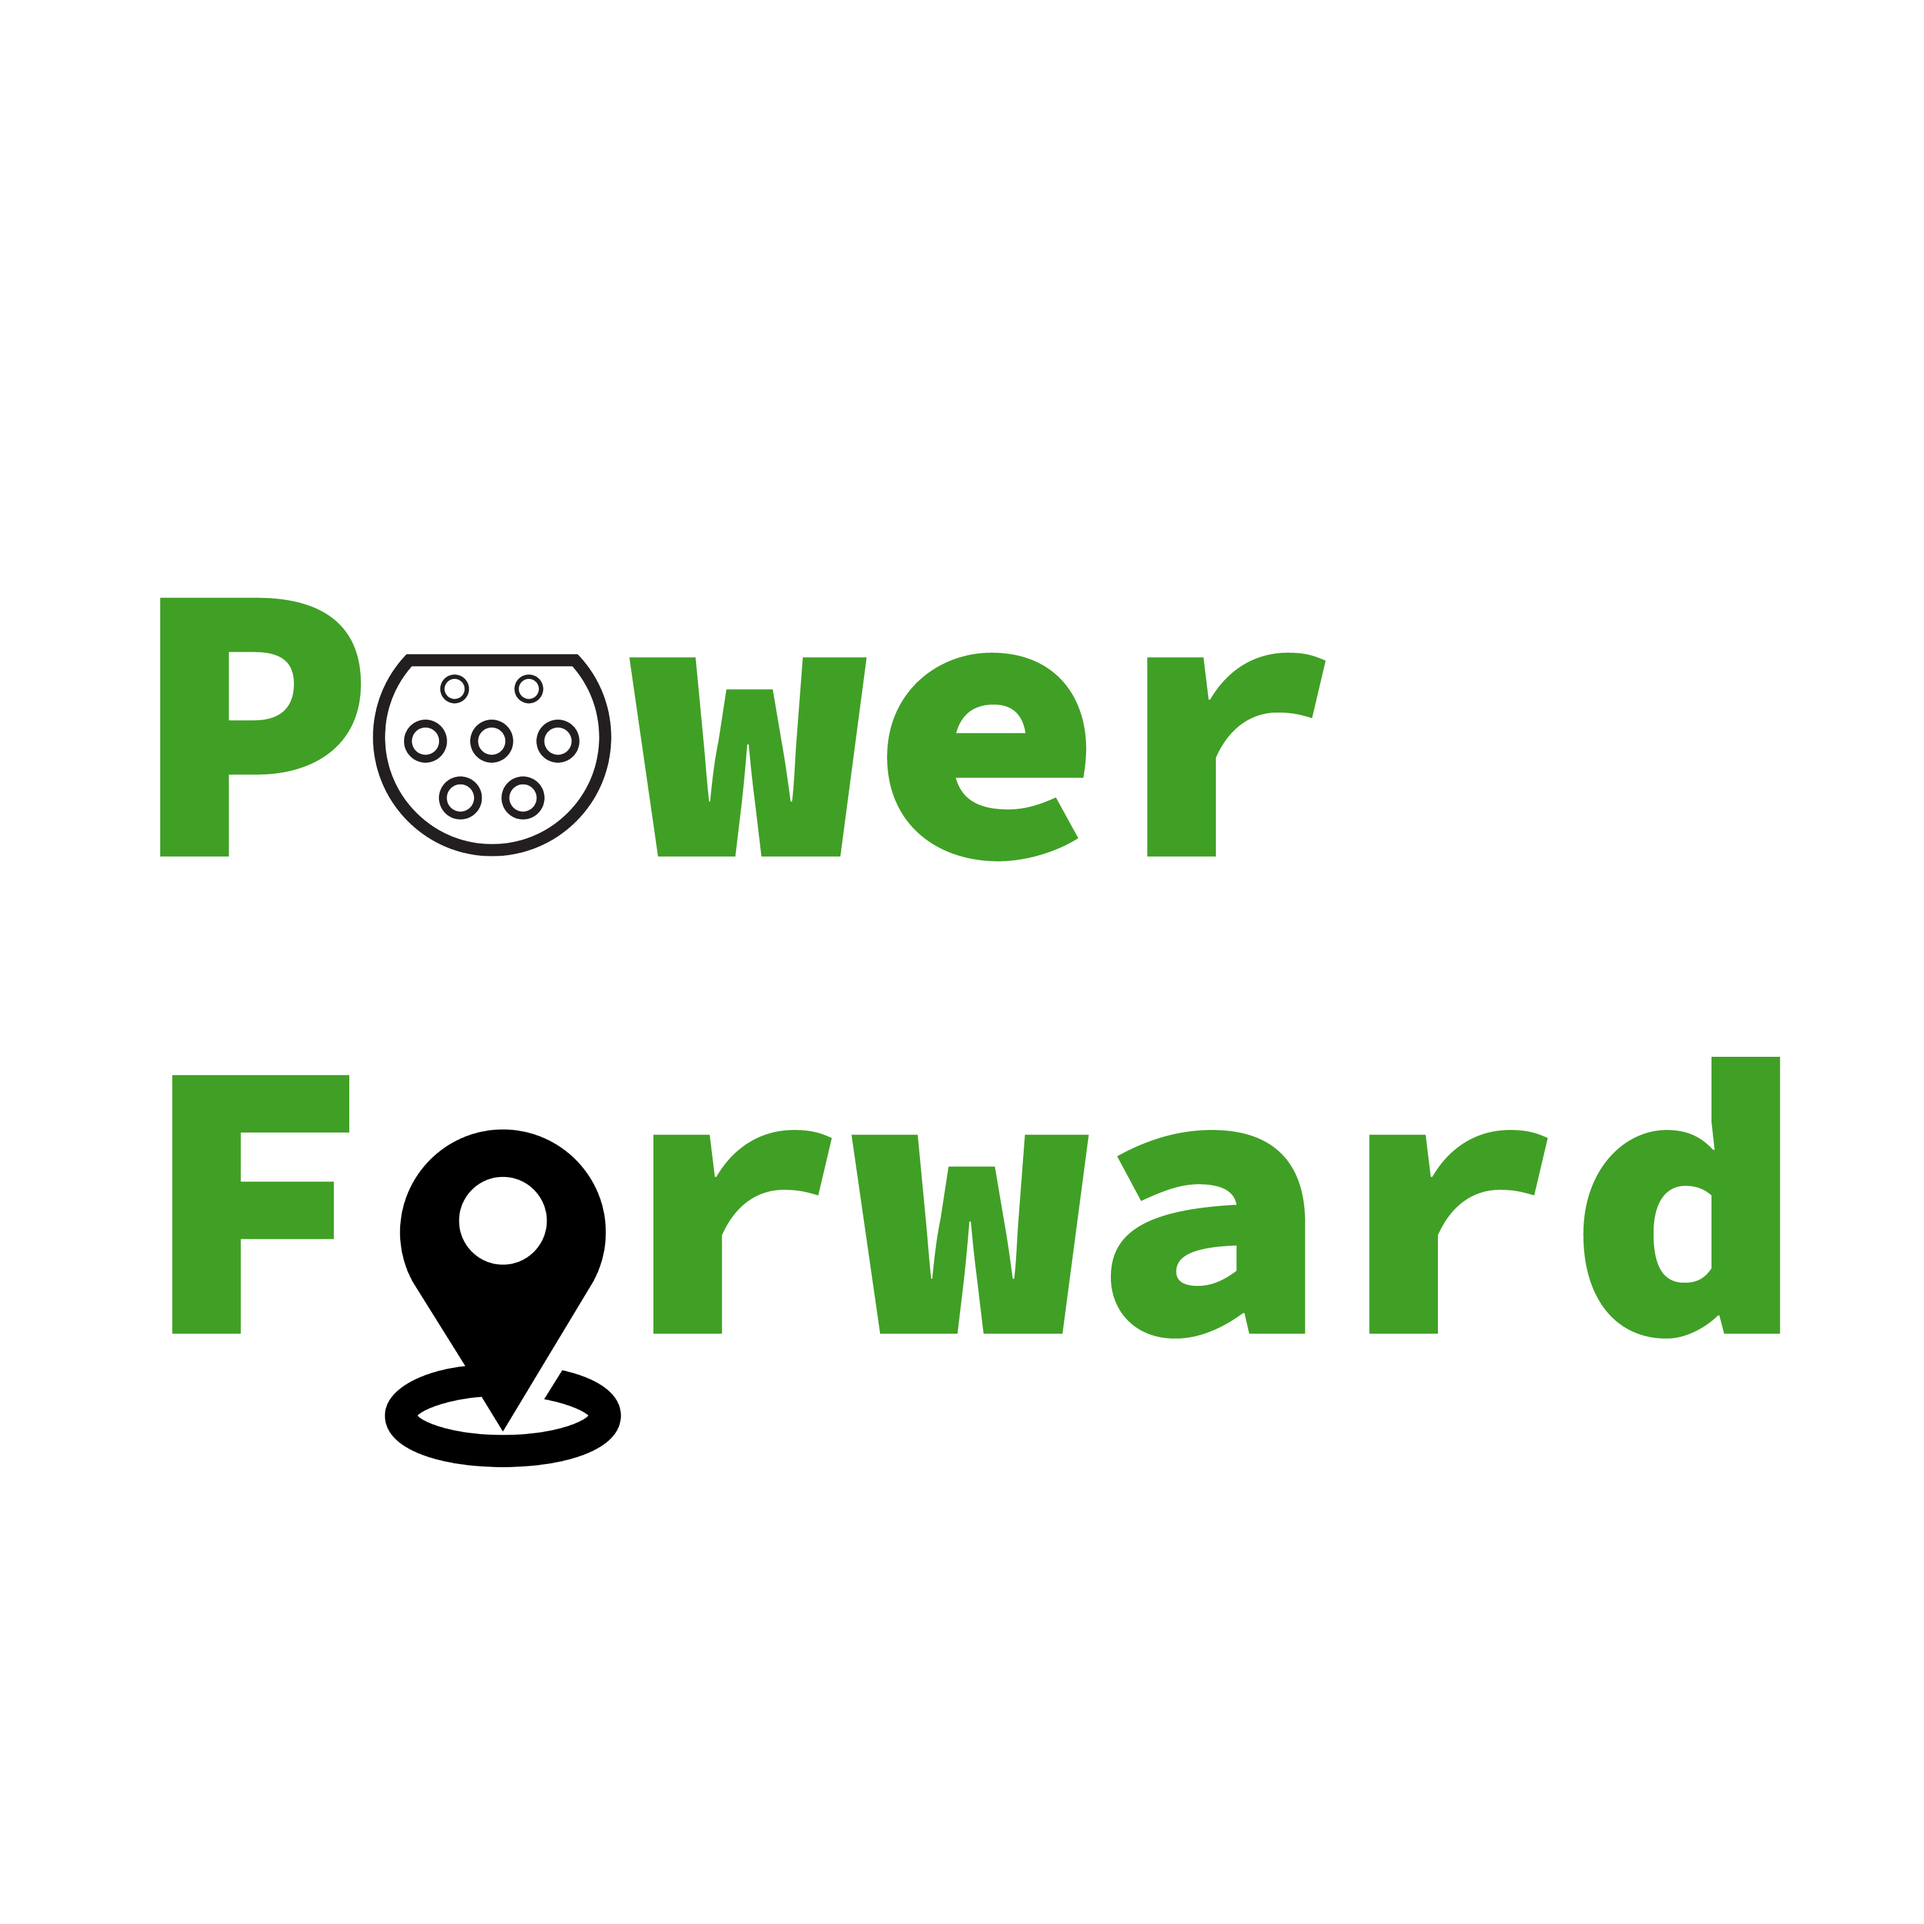
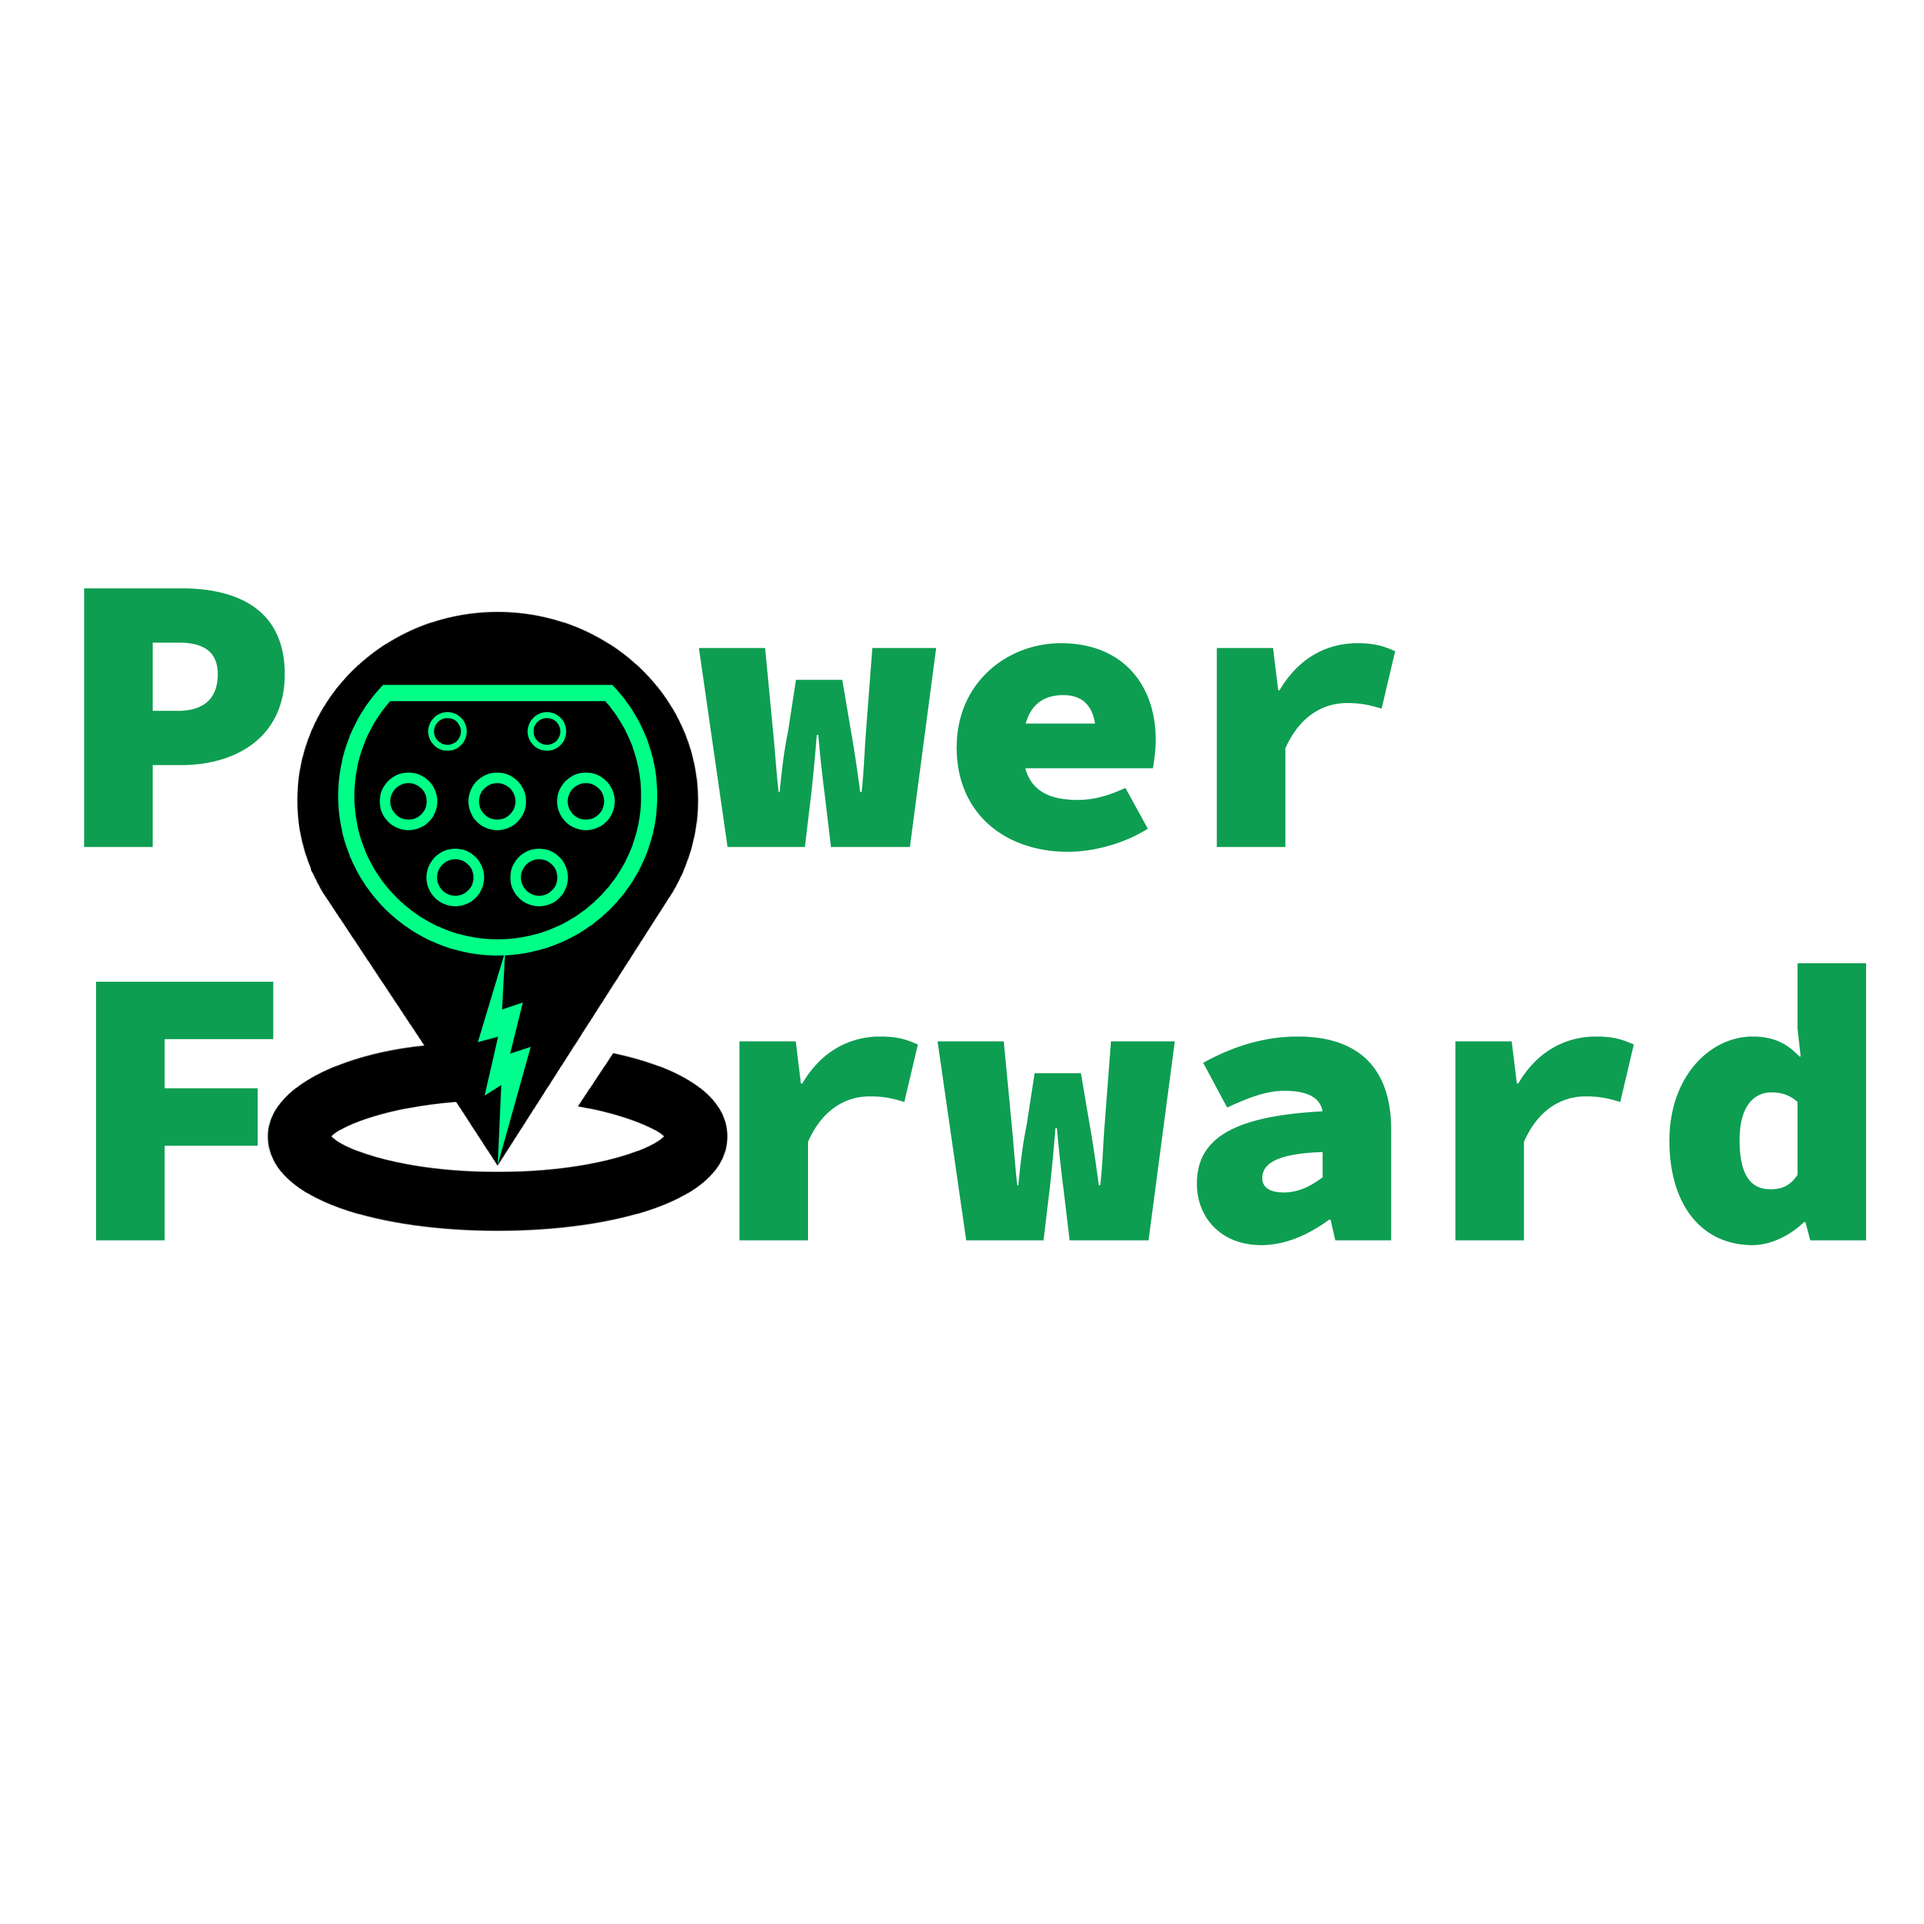
minor UI fixes for navbar, cleaned up some style, and included mongodb connection

Changed region(s): [[0.0311, 0.2798, 0.9947, 0.7771]]

diff --git a/server/src/templates/base.html b/server/src/templates/base.html
@@ -7,22 +7,25 @@
     <!-- Load an icon library to show a hamburger menu (bars) on small screens -->
     <link rel="stylesheet" href="https://cdnjs.cloudflare.com/ajax/libs/font-awesome/4.7.0/css/font-awesome.min.css">
     <!-- Bootstrap CSS -->
+
     <link href="//netdna.bootstrapcdn.com/bootstrap/3.0.0/css/bootstrap.min.css" rel="stylesheet" id="bootstrap-css">
 
     <!-- jQuery first, then Popper.js, then Bootstrap JS -->
-    <script src="http://ajax.googleapis.com/ajax/libs/jquery/1.7.1/jquery.min.js" type="text/javascript"></script>
-    <script src="https://code.jquery.com/jquery-3.3.1.slim.min.js" integrity="sha384-q8i/X+965DzO0rT7abK41JStQIAqVgRVzpbzo5smXKp4YfRvH+8abtTE1Pi6jizo" crossorigin="anonymous"></script>
-    <script src="https://cdnjs.cloudflare.com/ajax/libs/popper.js/1.14.7/umd/popper.min.js" integrity="sha384-UO2eT0CpHqdSJQ6hJty5KVphtPhzWj9WO1clHTMGa3JDZwrnQq4sF86dIHNDz0W1" crossorigin="anonymous"></script>
-    <script src="https://stackpath.bootstrapcdn.com/bootstrap/4.3.1/js/bootstrap.min.js" integrity="sha384-JjSmVgyd0p3pXB1rRibZUAYoIIy6OrQ6VrjIEaFf/nJGzIxFDsf4x0xIM+B07jRM" crossorigin="anonymous"></script>
-    <script src="//netdna.bootstrapcdn.com/bootstrap/3.0.0/js/bootstrap.min.js"></script>
-    <script src="//code.jquery.com/jquery-1.11.1.min.js"></script>
+    <!-- <script src="http://ajax.googleapis.com/ajax/libs/jquery/1.7.1/jquery.min.js" type="text/javascript"></script> -->
+    <!-- <script src="https://code.jquery.com/jquery-3.3.1.slim.min.js" integrity="sha384-q8i/X+965DzO0rT7abK41JStQIAqVgRVzpbzo5smXKp4YfRvH+8abtTE1Pi6jizo" crossorigin="anonymous"></script> -->
+    <!-- <script src="https://cdnjs.cloudflare.com/ajax/libs/popper.js/1.14.7/umd/popper.min.js" integrity="sha384-UO2eT0CpHqdSJQ6hJty5KVphtPhzWj9WO1clHTMGa3JDZwrnQq4sF86dIHNDz0W1" crossorigin="anonymous"></script> -->
+    <!-- <script src="https://stackpath.bootstrapcdn.com/bootstrap/4.3.1/js/bootstrap.min.js" integrity="sha384-JjSmVgyd0p3pXB1rRibZUAYoIIy6OrQ6VrjIEaFf/nJGzIxFDsf4x0xIM+B07jRM" crossorigin="anonymous"></script> -->
+    <!-- <script src="//netdna.bootstrapcdn.com/bootstrap/3.0.0/js/bootstrap.min.js"></script> -->
+    <!-- <script src="//code.jquery.com/jquery-1.11.1.min.js"></script> -->
 
     <title>{% block title %}{% endblock %} - Power Forward</title>
-    {% include 'style.html' %}
+
   </head>
+  {% include 'navbar.html' %}
+  {% include 'style.html' %}
 
   <body>
-    {% include 'navbar.html' %}
+
 
     <div id="content">
       <div class="jumbotron">
@@ -44,23 +47,11 @@
       {% block footer %}
       &copy; Copyright 2021 by
       <a href="https://powerforward.tech/">
-        <img src="{{url_for('static', filename='images/PowerForward_cleaned.png')}}" class="logo" style='width:10%'/>
+        <img src="{{url_for('static', filename='images/PowerForward_colored.png')}}" class="logo" style='width:10%'/>
       </a>
       {% endblock %}
     </div>
 
 
-    <!-- Optional JavaScript -->
-    <script>
-      function myFunction() {
-        var x = document.getElementByTagName("nav");
-        if (x.className === "topnav") {
-          x.className += " responsive";
-        } else {
-          x.className = "topnav";
-        }
-      }
-
-      </script>
 
   </body>

diff --git a/server/src/templates/style.html b/server/src/templates/style.html
@@ -14,7 +14,9 @@ button {
   display: inline-block;
   font-size: 20px;
   border-radius: 20px;
-  width: 80%;
+}
+container {
+  padding: 30px;
 }
 
 ul
@@ -24,50 +26,14 @@ ul
     margin:0px;
 }
 
-.logo {
-  max-width: 100vw;
-}
-.toplogo {
-    margin-top: 5px;
+.navbar-default .navbar-nav>.active>a, .navbar-default .navbar-nav>.active>a:focus, .navbar-default .navbar-nav>.active>a:hover {
+    color: white;
+    background-color: #0CC166;
 }
 
-.toplogo img {
-    height : 50;
-    width : 50;
-}
-
-.topnav {
-  overflow: hidden;
-  /* background-color: #333; */
-}
-
-.topnav a {
-  float: left;
-  display: block;
-  color: #000000;
-  text-align: center;
-  padding: 14px 16px;
-  text-decoration: none;
-  font-size: 17px;
-}
-
-.topnav a:hover {
+.navbar-default .navbar-nav>li>a:hover{
   background-color: #BEE3B4; /* light green */
   color: black;
-}
-
-.topnav a.active {
-  background-color: #40A025; /*Green*/
-  color: white;
-}
-
-.topnav li a.active {
-  background-color: #40A025; /*Green*/
-  color: white;
-}
-
-.topnav .icon {
-  display: none;
 }
 
 .display-4 {
@@ -80,28 +46,6 @@ h1, h2, h3, h4, h5, h6, .h1, .h2, .h3, .h4, .h5, .h6 {
     font-family: "Helvetica Neue",Helvetica,Arial,sans-serif;
 }
 
-
-@media screen and (max-width: 600px) {
-  .topnav a:not(:first-child) {display: none;}
-  .topnav a.icon {
-    float: right;
-    display: block;
-  }
-}
-
-@media screen and (max-width: 600px) {
-  .topnav.responsive {position: relative;}
-  .topnav.responsive .icon {
-    position: absolute;
-    right: 0;
-    top: 0;
-  }
-  .topnav.responsive a {
-    float: none;
-    display: block;
-    text-align: left;
-  }
-}
 
 @import url(https://fonts.googleapis.com/css?family=Source+Sans+Pro:400,200,200italic,300,300italic,400italic,600,600italic,700,700italic,900,900italic);
 

diff --git a/server/src/templates/index.html b/server/src/templates/index.html
@@ -7,11 +7,34 @@
 <div class='container'>
 
   <div class='row'>
-    <div class="heading-title text-center">
-        <h3 class="text-uppercase">About Power Forward</h3>
-        <p class="p-top-30 half-txt">We use machine learning to help governments and mobility companies optimally place new EV charging stations. Check out our recent work!</p>
+    <div class="heading-title">
+      <div class='container'>
+        <h3 class="text-uppercase text-center">About Power Forward</h3>
+        <h4 class="p-top-30">We use machine learning to help governments and mobility companies optimally place new EV charging stations.
+        </h4>
+      </div>
     </div>
+  </div>
 
+  <div class='row'>
+    <form method="POST" action="{{ url_for('suggest_city') }}">
+      <div class="container">
+        <h3>Suggest your City!</h3>
+        <p>Below you'll see existing charging stations throughout California.
+           If you have a city or area you would love to promote EV adoption, let us know!</p>
+      </div>
+
+      <div class="container" style="background-color:white">
+        <input type="text" placeholder="City" name="city" required>
+        <input type="text" placeholder="State" name="state" required>
+        <input type="email" placeholder="Email" name="email" required>
+        <input type="submit" value="Suggest">
+      </div>
+
+    </form>
+  </div>
+
+  <div class='row'>
     <div class="col-md-4 col-sm-4">
       <div class="team-member">
           <div class="team-img">

diff --git a/server/src/app.py b/server/src/app.py
@@ -1,4 +1,4 @@
-from flask import Flask, Response, request, abort, jsonify, render_template, make_response, session
+from flask import Flask, Response, request, abort, jsonify, render_template, make_response, session, redirect
 from flask_bootstrap import Bootstrap
 from flask_nav import Nav
 from flask_nav.elements import *
@@ -11,8 +11,6 @@ import requests
 import yaml
 
 from gateway import *
-from models.shared import *
-from models.saferproxyfix import SaferProxyFix
 '''
 App setup
 '''
@@ -42,7 +40,7 @@ def create_app(app, config=None):
 ###############################################
 #      Define navbar with logo                #
 ###############################################
-logo = img(src='static/images/PowerForward_icon.png', height="50", style="margin-top:-15px")
+logo = img(src='static/images/PowerForward_icon.png', width="50", style="margin-top:-15px")
 #here we define our menu items. Add as needed
 topbar = Navbar(View(logo, 'index'),
                 View('Home', 'index'),
@@ -50,7 +48,7 @@ topbar = Navbar(View(logo, 'index'),
                 View('Utilization Rates Map', 'display_utilization_map'),
                 View('Team', 'display_team')
                 )
-## 00FF87
+## 00FF87 neon green;; 40A025 dark green;; 0CC166
 # registers the "top" menubar
 nav = Nav()
 nav.register_element('top', topbar)
@@ -74,8 +72,6 @@ if __name__ == '__main__':
         'SQLALCHEMY_TRACK_MODIFICATIONS': True,
         # 'SQLALCHEMY_DATABASE_URI': DB_CONNECTION_STRING,
     })
-
-
 
     ## run web server
     app.run(debug=True,host='0.0.0.0',port=int(os.environ.get('PORT', 8080)))
@@ -186,3 +182,18 @@ def server_error(e):
     <pre>{}</pre>
     sorry
     """.format(e), 500
+
+
+'''
+Collections
+'''
+
+@app.route('/suggest-city', methods=['POST'])
+def suggest_city():
+    city = request.form['city']
+    email = request.form['email']
+    state = request.form['state']
+    print('Recived: ', city, email)
+    success = collect_suggestion(city, state, email)
+
+    return redirect(url_for('index'))

diff --git a/server/src/gateway.py b/server/src/gateway.py
@@ -1,8 +1,11 @@
 from flask_sqlalchemy import SQLAlchemy
 import requests, os
 import json, time, hashlib
-from datetime import datetime, timedelta
+import datetime as dt
 from urllib.parse import urlencode
+
+from models.shared import *
+from models.saferproxyfix import SaferProxyFix
 
 def validate_PF_API_token(headers):
     pf_token = headers.get('X-POWER-FORWARD-TOKEN')
@@ -45,6 +48,10 @@ def analytics(req):
                         "URL Visited": url,
                         "User Agent": device }
     content_str = "GOT A VISITOR!"
+
+    ## store in mongo
+    web_visitors.insert_one(content_dict)
+
     for k, v in content_dict.items():
         content_str = content_str + "\n  > {k}: {v}".format(k=k, v=v)
 
@@ -53,3 +60,17 @@ def analytics(req):
         'content': content_str
     }
     return send_to_discord(payload)
+
+def collect_suggestion(city, state, email):
+    t = time.time()
+    d = dt.datetime.fromtimestamp(t).strftime('%c').replace('  ', ' ').replace(' ', '_').replace(':', '-')
+    stored_doc = {"city": city,
+                  "state": state,
+                  "email": email,
+                  "time": t,
+                  "datetime": d}
+    ## store in mongo
+    print('Inserting to db')
+    inserted_id = web_suggestions.insert_one(stored_doc)
+    print(inserted_id)
+    return True

diff --git a/server/src/models/shared.py b/server/src/models/shared.py
@@ -1,14 +1,20 @@
 # apps.shared.models
 from flask_sqlalchemy import SQLAlchemy
-from datetime import datetime
 from sqlalchemy import create_engine
 from sqlalchemy.orm import sessionmaker
 from sqlalchemy.dialects.postgresql import UUID
 from flask_sqlalchemy_session import flask_scoped_session
+import pymongo
+
 import uuid
 import os
+from datetime import datetime
 
-
+MONGO_DB_CONNECTION_STRING ="mongodb+srv://justin-local:12qw34er56ty!@cluster0.g8w06.mongodb.net/myFirstDatabase?retryWrites=true&w=majority"# os.environ.get('MONGO_DB_CONNECTION_STRING')
+mongo_client = pymongo.MongoClient(MONGO_DB_CONNECTION_STRING)
+web_db = mongo_client.web
+web_suggestions = web_db.suggestions
+web_visitors = web_db.visitors
 # DB_CONNECTION_STRING = os.environ.get('DATABASE_URL')
 # # print(DB_CONNECTION_STRING)
 # engine = create_engine(DB_CONNECTION_STRING)
